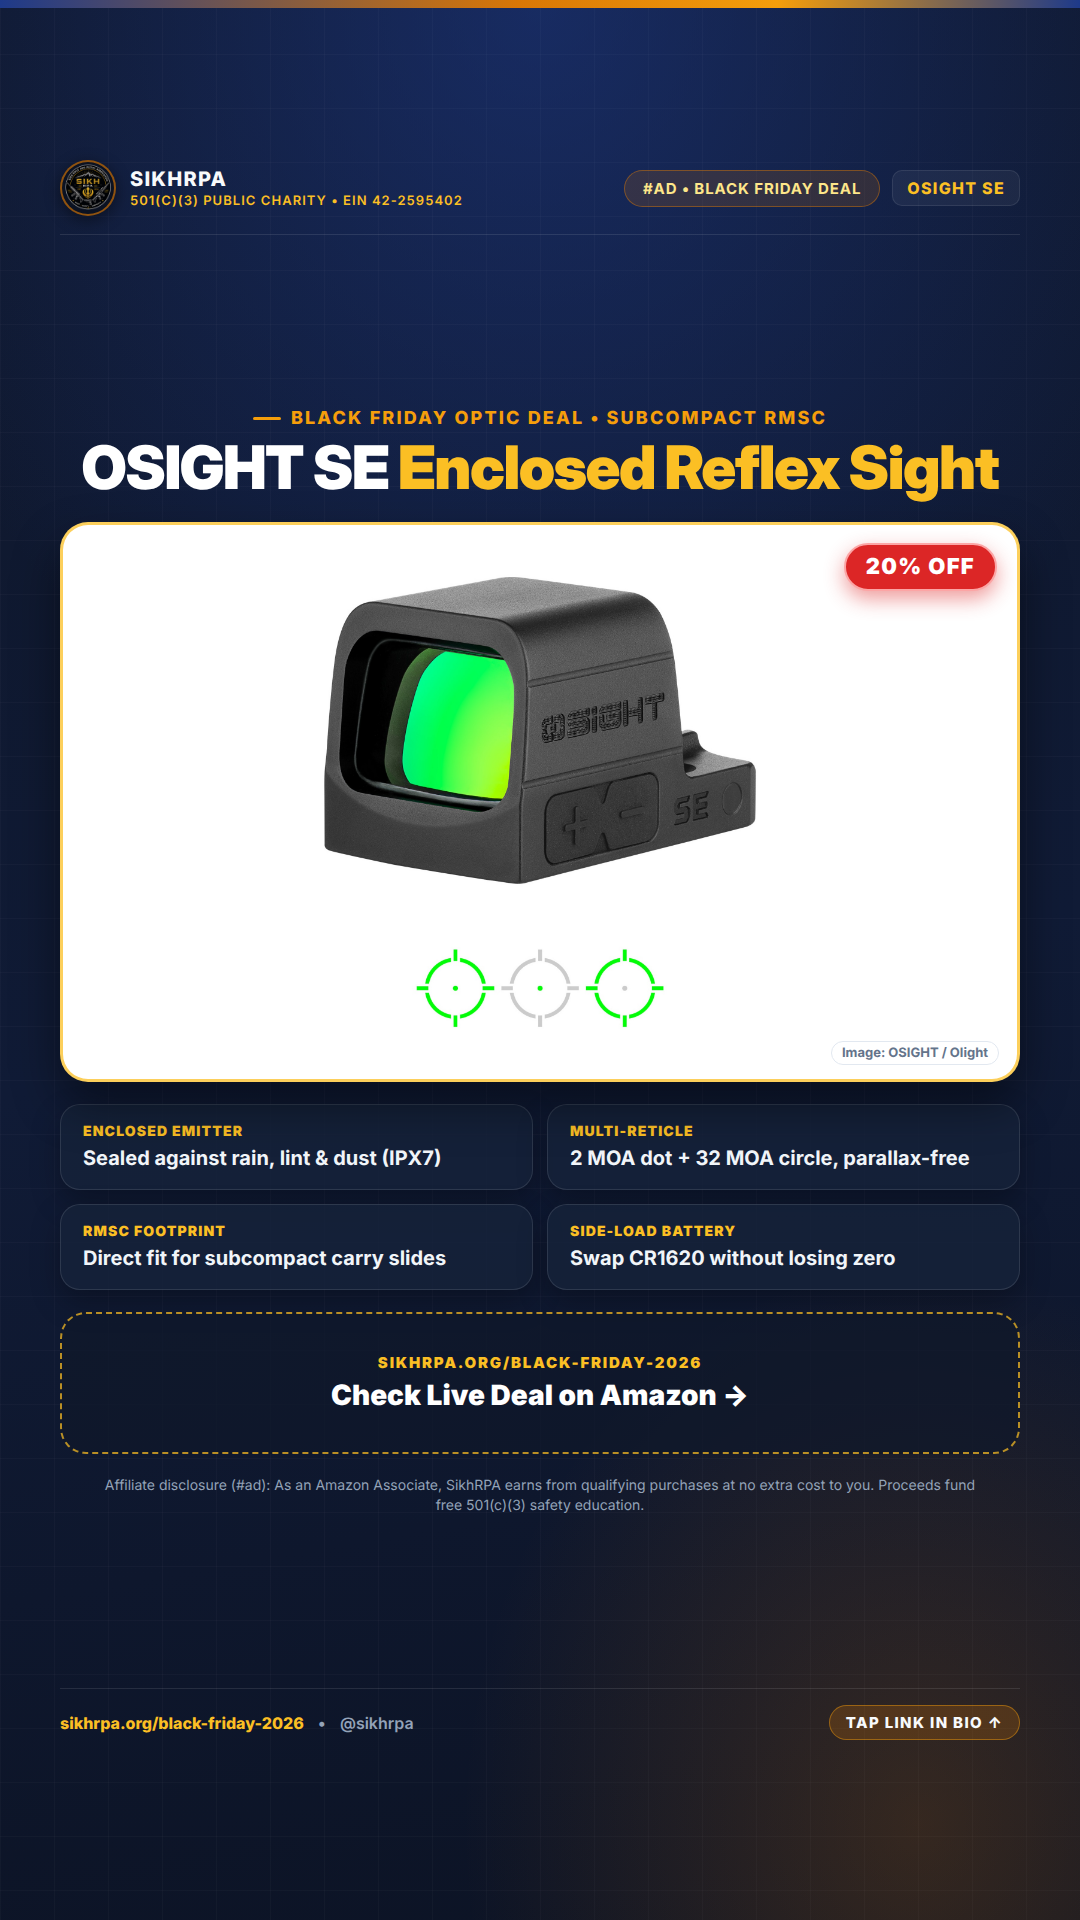
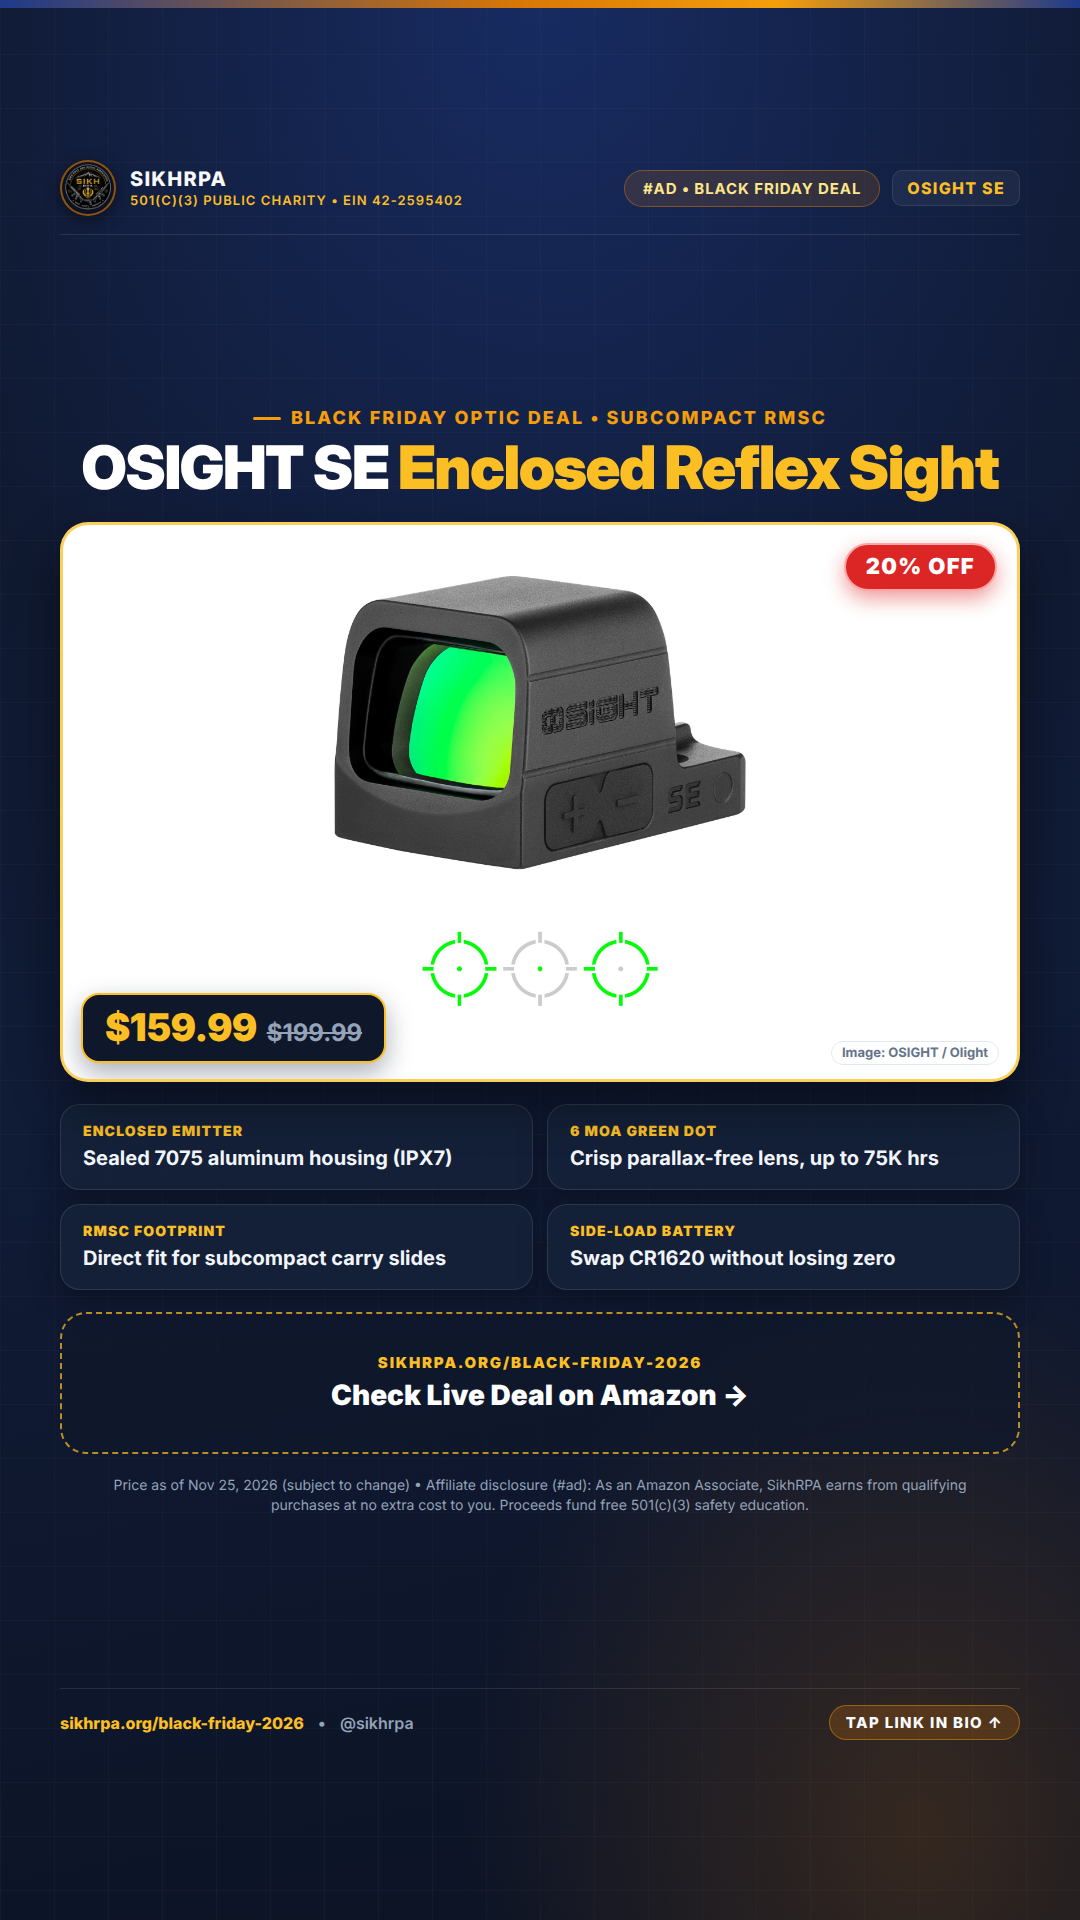
Add Black Friday price badge (59.99 / 99.99) to OSIGHT SE product Story

diff --git a/scripts/generate_deal_story.py b/scripts/generate_deal_story.py
@@ -114,6 +114,9 @@ def build_product_story_body(
     title: str,
     subtitle: str,
     discount: str,
+    price: str,
+    msrp: str,
+    price_note: str,
     image_data_uri: str,
     image_credit: str,
     specs: list[tuple[str, str]],
@@ -152,6 +155,29 @@ def build_product_story_body(
         else ""
     )
 
+    price_html = ""
+    if price:
+        msrp_span = (
+            f'<span style="font-size:24px;font-weight:700;color:#94a3b8;text-decoration:line-through;margin-left:10px;">'
+            f"{html.escape(msrp)}</span>"
+            if msrp
+            else ""
+        )
+        price_html = f"""
+        <div style="position:absolute;bottom:16px;left:18px;background:#0f172a;color:#ffffff;
+                    padding:10px 22px;border-radius:18px;border:2px solid #fbbf24;
+                    box-shadow:0 10px 26px rgba(15,23,42,0.35);display:flex;align-items:baseline;">
+          <span style="font-size:38px;font-weight:900;letter-spacing:-0.02em;color:#fbbf24;">
+            {html.escape(price)}
+          </span>
+          {msrp_span}
+        </div>
+        """
+
+    disclosure_text = DISCLOSURE_SLIDE
+    if price and price_note:
+        disclosure_text = f"{price_note} • {DISCLOSURE_SLIDE}"
+
     return f"""
     <div style="display:flex;flex-direction:column;gap:22px;width:100%;">
       <div style="display:flex;flex-direction:column;align-items:center;text-align:center;gap:8px;">
@@ -163,7 +189,7 @@ def build_product_story_body(
 
       <div style="position:relative;width:100%;height:560px;background:#ffffff;border-radius:28px;
                   border:3px solid rgba(251,191,36,0.75);box-shadow:0 22px 48px rgba(0,0,0,0.45);
-                  display:flex;align-items:center;justify-content:center;padding:34px 44px;overflow:hidden;">
+                  display:flex;align-items:center;justify-content:center;padding:34px 44px 56px;overflow:hidden;">
         <img src="{image_data_uri}" alt="{html.escape(title)}"
              style="max-width:100%;max-height:100%;object-fit:contain;display:block;"/>
         <div style="position:absolute;top:18px;right:20px;background:#dc2626;color:#ffffff;
@@ -172,6 +198,7 @@ def build_product_story_body(
                     box-shadow:0 8px 20px rgba(220,38,38,0.45);">
           {html.escape(discount)}
         </div>
+        {price_html}
         {credit_html}
       </div>
 
@@ -185,7 +212,7 @@ def build_product_story_body(
       </div>
 
       <div style="font-size:14px;line-height:1.4;color:#94a3b8;text-align:center;max-width:900px;margin:0 auto;">
-        {DISCLOSURE_SLIDE}
+        {html.escape(disclosure_text)}
       </div>
     </div>
     """
@@ -207,6 +234,9 @@ def render_deal_story(args: argparse.Namespace) -> int:
         title=args.title,
         subtitle=args.subtitle,
         discount=args.discount,
+        price=args.price,
+        msrp=args.msrp,
+        price_note=args.price_note,
         image_data_uri=image_data_uri,
         image_credit=args.image_credit,
         specs=specs,
@@ -226,7 +256,7 @@ def render_deal_story(args: argparse.Namespace) -> int:
             {
                 "filename": args.filename,
                 "body_html": " ".join(
-                    [args.eyebrow, args.title, args.subtitle, args.discount, args.cta_label]
+                    [args.eyebrow, args.title, args.subtitle, args.discount, args.price, args.msrp, args.cta_label]
                     + [f"{k} {v}" for k, v in specs]
                 ),
             }
@@ -303,7 +333,14 @@ def parse_args() -> argparse.Namespace:
     ap.add_argument("--eyebrow", required=True, help="Top category/deal eyebrow text")
     ap.add_argument("--title", required=True, help="Primary product name")
     ap.add_argument("--subtitle", default="", help="Gold-accented product subtitle")
-    ap.add_argument("--discount", required=True, help="Discount badge text (e.g. '20% OFF' — no static $ prices)")
+    ap.add_argument("--discount", required=True, help="Discount badge text (e.g. '20% OFF')")
+    ap.add_argument("--price", default="", help="Optional sale price badge (e.g. '$159.99')")
+    ap.add_argument("--msrp", default="", help="Optional original MSRP shown with strikethrough (e.g. '$199.99')")
+    ap.add_argument(
+        "--price-note",
+        default="Price as of Nov 25, 2026 (subject to change)",
+        help="Timestamp disclaimer appended when --price is displayed",
+    )
     ap.add_argument("--image", required=True, help="Local path or official manufacturer HTTPS image URL")
     ap.add_argument("--image-credit", default="", help="Manufacturer image credit (e.g. 'Image: OSIGHT / Olight')")
     ap.add_argument("--spec", action="append", default=[], help="Spec item as 'LABEL|Detail' (up to 4)")
